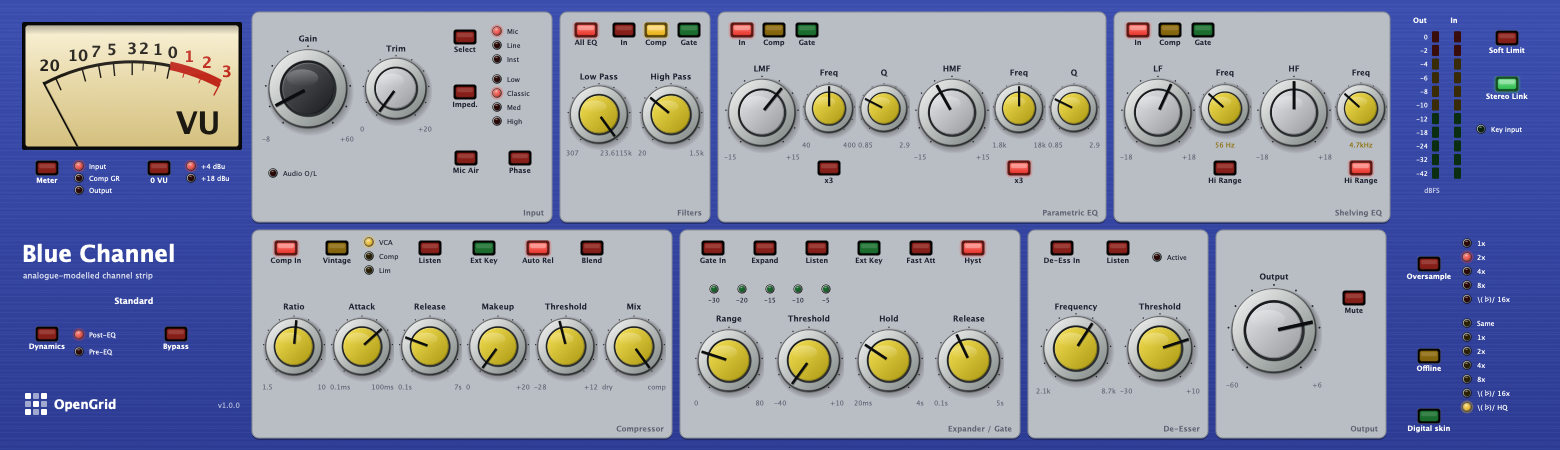
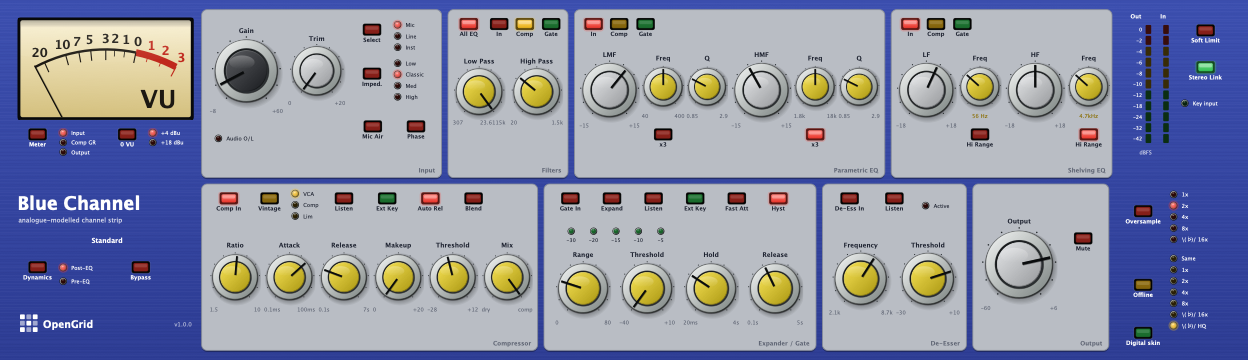
Set release editor opening size to 1248 by 360 and complete platform packaging

diff --git a/tests/processor_test.cpp b/tests/processor_test.cpp
@@ -251,22 +251,27 @@ int main()
         }
     }
 
-    // Initial sizing must survive setup callbacks and migrate old small windows exactly once.
+    // Initial sizing must survive setup callbacks and migrate earlier preview windows exactly once.
     {
         BlueChannelProcessor p;
         {
             std::unique_ptr<juce::AudioProcessorEditor> editor(p.createEditor());
-            check(editor->getWidth()==1560 && editor->getHeight()==450,"new editors start at double the previous 780 x 225 size");
+            check(editor->getWidth()==1248 && editor->getHeight()==360,"new editors start at 1248 x 360");
             editor->setSize(1872,540);
         }
         {
             std::unique_ptr<juce::AudioProcessorEditor> editor(p.createEditor());
             check(editor->getWidth()==1872 && editor->getHeight()==540,"reopening retains user sizing without doubling it again");
         }
+        BlueChannelProcessor preview;
+        preview.apvts.state.setProperty("uiscaleversion",2,nullptr);
+        preview.apvts.state.setProperty("uiscale",1.7,nullptr);
+        std::unique_ptr<juce::AudioProcessorEditor> previewEditor(preview.createEditor());
+        check(previewEditor->getWidth()==1248 && previewEditor->getHeight()==360,"enlarged preview windows reset once to 1248 x 360");
         BlueChannelProcessor old;
         old.apvts.state.setProperty("uiscale",0.85,nullptr);
         std::unique_ptr<juce::AudioProcessorEditor> migrated(old.createEditor());
-        check(migrated->getWidth()==2652 && std::abs(migrated->getHeight()-765)<=1,"legacy saved editor sizes migrate to twice their previous dimensions");
+        check(migrated->getWidth()==1248 && migrated->getHeight()==360,"legacy saved editor sizes migrate to the release opening size");
     }
 
     // Layout overrides survive reload and preserve parameter identity when a slider becomes a knob.

diff --git a/Source/Plugin/PluginEditor.cpp b/Source/Plugin/PluginEditor.cpp
@@ -500,11 +500,10 @@ void BlueChannelPanel::tick()
 
 BlueChannelEditor::BlueChannelEditor(BlueChannelProcessor& p) : AudioProcessorEditor(p), proc(p), panel(p)
 {
-    // Capture the saved scale before resize-limit setup can call resized(). Older editors accidentally
-    // saved the 0.5x minimum during construction. Double existing sizes once, then retain user resizing.
-    const bool legacyScale=int(proc.apvts.state.getProperty("uiscaleversion",1))<2;
-    const double savedScale=double(proc.apvts.state.getProperty("uiscale",legacyScale ? 0.5 : 1.0));
-    const double scale=juce::jlimit(0.5,2.0,savedScale*(legacyScale ? 2.0 : 1.0));
+    // Migrate earlier preview sizes once to the 1.0 opening size. Capture it
+    // before resize-limit setup can call resized(); later user resizing is retained.
+    const bool legacyScale=int(proc.apvts.state.getProperty("uiscaleversion",1))<3;
+    const double scale=legacyScale ? 0.8 : juce::jlimit(0.5,2.0,double(proc.apvts.state.getProperty("uiscale",0.8)));
     addAndMakeVisible(panel);
 #if BLUECHANNEL_DEV_EDITOR
     dev = std::make_unique<DevTools>(panel, *this);
@@ -517,7 +516,7 @@ BlueChannelEditor::BlueChannelEditor(BlueChannelProcessor& p) : AudioProcessorEd
                     BlueChannelPanel::kHeight * 2);
     setSize(juce::roundToInt(BlueChannelPanel::kWidth * scale),juce::roundToInt(BlueChannelPanel::kHeight * scale));
     editorSized=true;
-    proc.apvts.state.setProperty("uiscaleversion",2,nullptr);
+    proc.apvts.state.setProperty("uiscaleversion",3,nullptr);
     resized();
     startTimerHz(30);
 }

diff --git a/docs/measurements/evidence-1.0.0/README.md b/docs/measurements/evidence-1.0.0/README.md
@@ -4,11 +4,12 @@ Universal macOS Release, Apple M1 Max, Apple clang 16, JUCE 9.0.3, full Offline 
 developer editor disabled. Release artefact signatures/notarisation are recorded with the downloads.
 
 - `ctest-arm64.log`: four groups passed, including default Mic HQ float/double startup.
+- `processor-arm64.log`: final 1248 × 360 startup, old-preview reset and later resize recall.
 - `pluginval.log`: VST3 strictness 7 passed, in-process, GUI tests skipped.
 - `hq-extended.log`: isolated component instances, block continuation, reset, source changes and dynamics controls.
-- `rosetta-stage.log`, `rosetta-model.log`, `rosetta-processor.log`: x86_64 slices under Rosetta.
+- `rosetta-stage.log`, `rosetta-model.log`, `rosetta-processor.log`, `rosetta-hq.log`: x86_64 slices under Rosetta.
 
-The three [UI images](../../images/) are component snapshots from this release at 1560 × 450.
-Native standalone windows were also inspected. Screenshots use representative settings with HQ armed;
+The three [UI images](../../images/) are component snapshots from this release at 1248 × 360.
+The native resized standalone is captured in `native-digital.png`. Native standalone windows were also inspected. Screenshots use representative settings with HQ armed;
 HQ remains off in a fresh instance. Native standalone state restoration was preserved during the check.
 Listening, target DAW acceptance, long-render memory and physical Windows/Linux/Intel tests remain open.

diff --git a/docs/BUILDING.md b/docs/BUILDING.md
@@ -68,7 +68,7 @@ once; each instance saves its current full layout.
   binaries, runs the tests (and the model test under Rosetta), and packages.
 - **Windows**: Visual Studio 2022 with C++; `installer\build_windows.ps1`. Inno Setup 6 is optional.
 - **Linux** (Debian/Ubuntu package names): `ninja-build libasound2-dev libjack-jackd2-dev libx11-dev
-  libxcomposite-dev libxcursor-dev libxext-dev libxinerama-dev libxrandr-dev libxrender-dev
+  libxcomposite-dev libxi-dev libxcursor-dev libxext-dev libxinerama-dev libxrandr-dev libxrender-dev
   libfreetype6-dev libfontconfig1-dev libgl1-mesa-dev`; `installer/build_linux.sh`. The processor test
   opens an editor, so headless machines need `xvfb-run`.
 
@@ -91,9 +91,9 @@ use and distribute your build. The AAX SDK has its own terms and is not included
 
 ## Initial editor size
 
-New editors start at 1560 x 450 logical screen units, twice the previous effective 780 x 225 startup
-size. Legacy saved editor sizes are doubled once, up to the existing 3120 x 900 limit. Later user
-resizing is preserved across reopen. Developer mode adds the inspector below the panel.
+New editors start at 1248 x 360 logical screen units (80% of the 1560 x 450 layout).
+Earlier preview windows reset to this opening size once. Later user resizing is preserved across
+reopen. Developer mode adds the inspector below the panel.
 
 ## HQ development build
 

diff --git a/docs/MEASUREMENTS.md b/docs/MEASUREMENTS.md
@@ -6,7 +6,7 @@ The universal macOS Release build (developer editor disabled, full Offline HQ en
 all four CTest groups: stage netlists, model, processor and component solver. The VST3 passed
 pluginval at strictness 7, in-process with GUI tests skipped. A host-visible switch-normalisation
 fix is covered by fractional automation/state-recall cases. Native standalone analogue and Digital
-windows were inspected; documentation images are deterministic 1560 × 450 component captures.
+windows were inspected; documentation images are deterministic 1248 × 360 component captures.
 
 The extended HQ fixture passed with a block-split residual of 1.71003e-7 FS. Its 94.17 s wall time
 includes operating-point restarts and concurrent release work; it is not a render-throughput benchmark.

diff --git a/docs/RELEASE_1.0.0.md b/docs/RELEASE_1.0.0.md
@@ -7,7 +7,7 @@ near-unity Mic detent (index 1) now uses the unity calibration.
 
 Digital provides compressor-curve handles, an EQ response with draggable bands and HP/LP filters, an
 output FFT, and All Controls for the remaining controls. Sidechain filters stay available when assigned
-outside the audio path. Blue-panel key/selector text is white. Fresh editors start at 1560 × 450.
+outside the audio path. Blue-panel key/selector text is white. Fresh editors start at 1248 × 360.
 
 Offline HQ is the final derp HQ lamp in the analogue Offline selector and a choice in Digital's Offline
 menu. The standalone HQ button and the experimental realtime HQ engine are removed. Host parameter IDs

diff --git a/README.md b/README.md
@@ -20,7 +20,7 @@ with an output FFT. HP/LP filters stay editable when routed to a sidechain and d
 - The final **`\( ᐖ)/ HQ`** lamp in **Offline** arms the full component solver. Digital has the same choice
   in its Offline menu on All Controls, with a header indicator. There is no realtime HQ mode.
 - Mono/stereo operation, external key inputs, stereo-linked detectors, routing and listen controls.
-- The editor starts at 1560 × 450 and remembers resizing. The source build offers optional layout editing.
+- The editor starts at 1248 × 360 and remembers resizing. The source build offers optional layout editing.
 
 ## Download
 

diff --git a/CHANGELOG.md b/CHANGELOG.md
@@ -8,3 +8,4 @@ extra derp HQ lamp. Includes public authored numerical models, dependency notice
 and private-reference exclusion/auditing. See docs/RELEASE_1.0.0.md for scope and validation limits.
 
 - Quantise host-visible switch values so fractional host automation recalls consistently.
+- Open the editor at 1248 × 360, resetting enlarged preview windows once and retaining later resizing.
